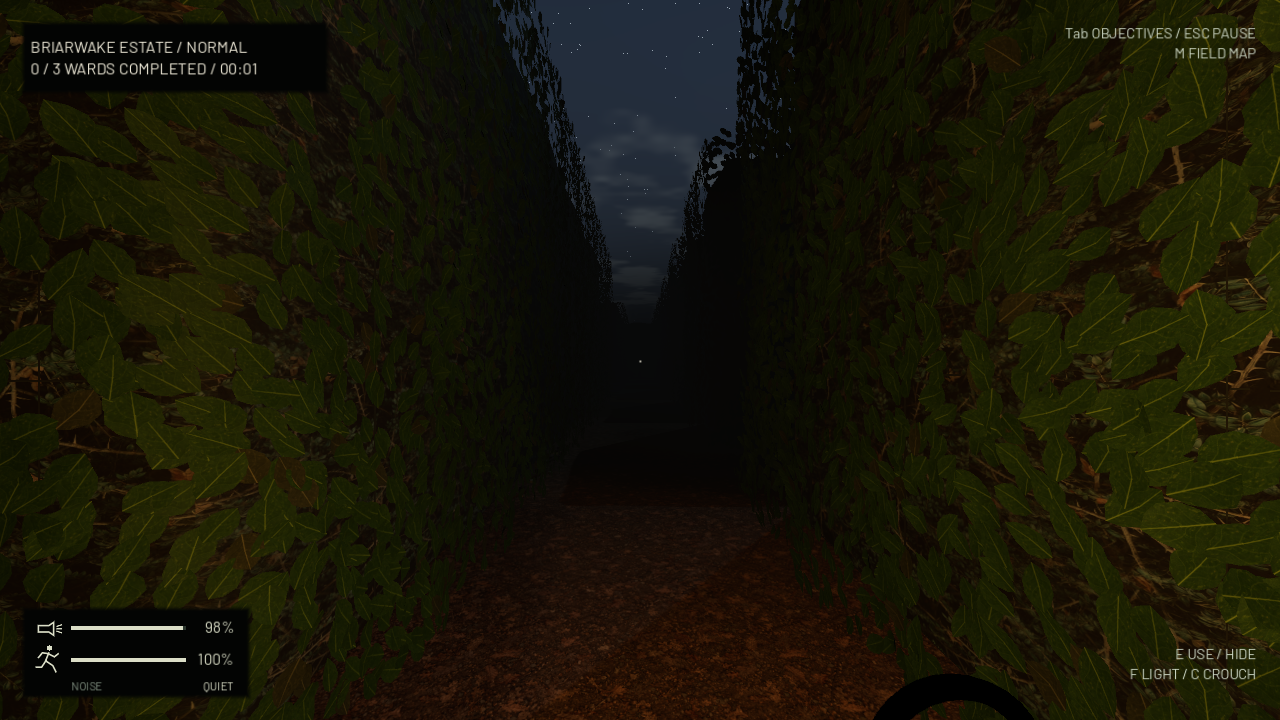
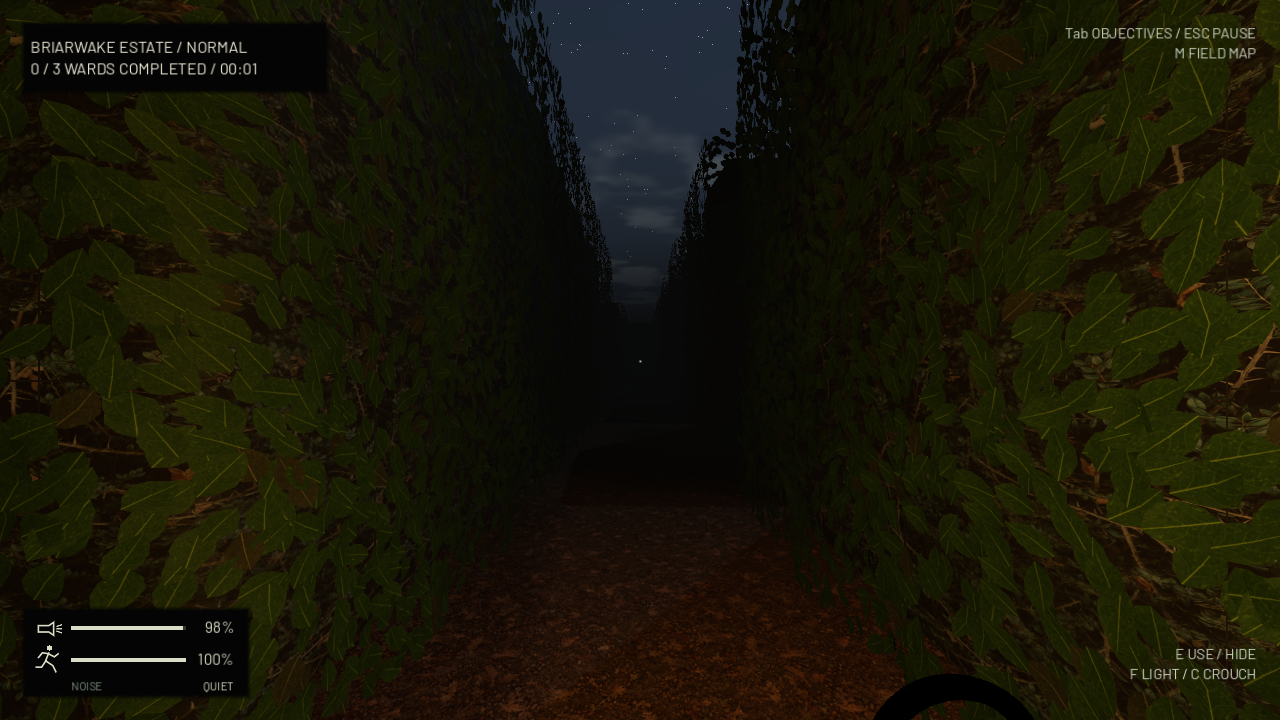
fix(launcher): verify files before starting

diff --git a/docs/index.html b/docs/index.html
@@ -23,10 +23,10 @@
     <img class="hero-image" src="./assets/station-key-art.png" alt="Key art: a lone figure beneath a red beacon in a flooded pumping station" fetchpriority="high">
     <div class="hero-shade"></div>
     <div class="hero-copy">
-      <p class="eyebrow"><span class="signal" aria-hidden="true"></span> FREE PLAYABLE ALPHA <span class="build-number">/ 0.23.3</span></p>
+      <p class="eyebrow"><span class="signal" aria-hidden="true"></span> FREE PLAYABLE ALPHA <span class="build-number">/ 0.23.4</span></p>
       <h1 id="game-title">THE HOLLOW<br><span>BELOW</span><i>.</i></h1>
       <p class="tagline">Something down here<br>still remembers your name.</p>
-      <div class="hero-actions"><a class="button primary" href="https://github.com/RyanVerWey/the-hollow-below-alpha/releases/download/v0.23.3/The-Hollow-Below-Alpha-Setup.exe" data-installer-download download>DOWNLOAD INSTALLER <span aria-hidden="true">↓</span></a></div>
+      <div class="hero-actions"><a class="button primary" href="https://github.com/RyanVerWey/the-hollow-below-alpha/releases/download/v0.23.4/The-Hollow-Below-Alpha-Setup.exe" data-installer-download download>DOWNLOAD INSTALLER <span aria-hidden="true">↓</span></a></div>
       <p class="platform-note">Windows 10 / 11 · Solo / 2–4 player co-op · Keyboard &amp; mouse</p>
     </div>
     <div class="hero-bottom"><span>BLACKWATER MUNICIPAL AUTHORITY<br><small>INCIDENT RECORD / 013</small></span><button class="sound-toggle" id="sound-toggle" type="button" aria-pressed="false"><span aria-hidden="true">♫</span> LISTEN TO THE STATION</button><span class="key-art-label">KEY ART / NOT A GAMEPLAY CAPTURE</span></div>
@@ -34,7 +34,7 @@
   <section class="station section" id="station" aria-labelledby="station-title">
     <p class="eyebrow section-index">01 / THE DESCENT</p>
     <div class="station-intro"><h2 id="station-title">THE POWER IS OUT.<br><span>YOU ARE NOT ALONE.</span></h2><div><p>The floodgate circuit has gone dark. Below Blackwater, the corridors are filling with haze. Find three breakers, restore the circuit, and get back to the entrance.</p><p>Keep your footsteps quiet. Whatever is moving through the station can hear you.</p></div></div>
-    <figure class="gameplay-wide"><img src="./assets/haze-gameplay.png" alt="Godot alpha gameplay: the Blackwater station corridor lit by a limited flashlight" loading="lazy"><figcaption><span>IN-GAME CAPTURE / ALPHA 0.23.3</span><span>VISIBILITY: LIMITED</span></figcaption></figure>
+    <figure class="gameplay-wide"><img src="./assets/haze-gameplay.png" alt="Godot alpha gameplay: the Blackwater station corridor lit by a limited flashlight" loading="lazy"><figcaption><span>IN-GAME CAPTURE / ALPHA 0.23.4</span><span>VISIBILITY: LIMITED</span></figcaption></figure>
     <div class="survival-notes"><article><span class="note-number">I.</span><h3>Spend your light wisely.</h3><p>Your flashlight drains. Switch it off to recover power, and listen before you move.</p></article><article><span class="note-number">II.</span><h3>It follows the noise.</h3><p>Running carries through the station. Crouch, change direction, and break its line of sight.</p></article><article><span class="note-number">III.</span><h3>Hide before it sees you.</h3><p>A locker buys you time. If it watches you climb inside, it already knows where to look.</p></article></div>
   </section>
   <section class="briarwake section" id="briarwake" aria-labelledby="briarwake-title">
@@ -45,9 +45,9 @@
   <section class="play-section section" id="play" aria-labelledby="play-title">
     <div class="play-heading"><p class="eyebrow">02 / ACCESS AUTHORIZED</p><h2 id="play-title">GO BELOW.</h2><p>Free alpha. No account. No engine to install.</p></div>
     <div class="download-panel">
-      <div class="release-line"><span class="availability"><span class="signal" aria-hidden="true"></span> ALPHA AVAILABLE</span><span id="release-version">BUILD 0.23.3</span></div>
+      <div class="release-line"><span class="availability"><span class="signal" aria-hidden="true"></span> ALPHA AVAILABLE</span><span id="release-version">BUILD 0.23.4</span></div>
       <h3>WINDOWS ALPHA</h3><p class="download-description">The full game and its own launcher in one Windows installer. Install once, then return through your desktop or Start menu shortcut.</p>
-      <a class="button primary download-launcher" href="https://github.com/RyanVerWey/the-hollow-below-alpha/releases/download/v0.23.3/The-Hollow-Below-Alpha-Setup.exe" data-installer-download download>DOWNLOAD INSTALLER <span aria-hidden="true">↓</span></a>
+      <a class="button primary download-launcher" href="https://github.com/RyanVerWey/the-hollow-below-alpha/releases/download/v0.23.4/The-Hollow-Below-Alpha-Setup.exe" data-installer-download download>DOWNLOAD INSTALLER <span aria-hidden="true">↓</span></a>
       <p class="download-facts" id="download-facts">Windows 10 / 11, 64-bit · Full installer: 314.4 MB</p>
       <ol class="install-steps"><li>Open the installer and choose <b>Install</b>.</li><li>Open the launcher and choose <b>Play game</b>.</li><li>Return using your desktop or Start menu shortcut.</li></ol>
       <p class="alpha-note">Early, unsigned alpha software. Windows may show a publisher warning. There is no save system yet.</p>
@@ -58,7 +58,7 @@
   <section class="field-section section" id="field-notes" aria-labelledby="notes-title">
     <div class="field-heading"><p class="eyebrow">03 / FIELD NOTES</p><h2 id="notes-title">BEFORE YOU ENTER.</h2></div>
     <div class="field-grid"><div class="controls"><h3>Keep these close.</h3><dl><div><dt>Move</dt><dd>W A S D</dd></div><div><dt>Look</dt><dd>MOUSE / ARROWS</dd></div><div><dt>Sprint</dt><dd>SHIFT</dd></div><div><dt>Crouch</dt><dd>C / CTRL</dd></div><div><dt>Flashlight</dt><dd>F</dd></div><div><dt>Use / hide</dt><dd>E</dd></div><div><dt>Objectives</dt><dd>TAB</dd></div><div><dt>Survey in staging</dt><dd>M</dd></div><div><dt>Difficulty in staging</dt><dd>R</dd></div><div><dt>Pause</dt><dd>ESC</dd></div></dl></div>
-    <div class="faq"><details open><summary>What is in this alpha?</summary><p>Godot alpha 0.23.3. Repairs hunter awareness: deliberately approaching a hunter interrupts your opening protection, and sustained nearby walking can escalate into a hunt. Distant players retain entry protection and safe rooms remain protected. Everyone in a co-op group should update. Play solo or host private co-op for 2–4 players using invite codes. Choose from four survivors and save your own display name. The host selects either level and difficulty. Survivors start separately, share objectives and map discoveries, and must each escape. Death or escape lets you spectate. The host must stay connected; online menus do not pause the hunt. Internet is required for co-op; solo play remains offline. Two playable nightmares: Blackwater pumping station and Briarwake Estate, a moonlit hedge maze. Briarwake has a blood-moon sky, drifting haze, damp dirt paths and joined hedges. Its farmer wears a stitched hood and leather apron, carries a two-handed chainsaw, and uses authored walk, run and three attack animations. New iron oil lanterns mark corridor turns. Its chainsaw attacks have a visible windup, a committed swing and recovery; cover and retreat can prevent a hit. Briarwake has a safe potting house, dim lanterns, cold haze, tool shelters and the Thornkeeper: a demonic farmer carrying a chainsaw. Restore three wards in any order. The Lantern Ward strengthens guide lights and doubles portable-lantern endurance; the Wind Bell adds player tracking and a reusable nearby stagger; the Root Altar opens three thorn shortcuts. Any ward unlocks the M-toggle survey; seen objectives are recorded on the map; unseen locations remain hidden. Restore all three and return to the estate gate. Hear the saw approach before you see him. Both levels share the same HUD, map legend, objective checklist, pause controls and settings. Found objectives gain amber map pins; completed objectives turn green. Both levels offer Easy, Normal, Hard and Nightmare, with different routes, lighting, equipment and hunting. Nightmare removes portable light and sprint and locks most hiding places. Blackwater retains its breaker progression and live field map. Electrical buzzing grows louder near unpowered breakers, carries around corners and stops when restored. In Briarwake, follow lantern wind and loose metal, a creaking bell hanger with dull clapper, or dry root groans to dormant wards. Each falls silent when restored. Its harmless corner scares now have roughly half the former cooldown, with shorter retries when placement fails. Corn Maze and Stone Labyrinth remain Coming Soon. TAB shows objectives; Escape pauses and resumes. Restarting or leaving a run requires confirmation that progress will not be saved. Controls &amp; settings offers Fullscreen, Borderless and Windowed, resolution, three graphics presets, V-Sync and a frame limit. Display changes revert unless confirmed. The title menu includes Quit to desktop.</p></details><details><summary>How do I play with friends?</summary><p>Open Play with Friends, enter your name and host a private lobby. Share its invite code with up to three friends. Everyone chooses a survivor and readies up; the host chooses the level and difficulty and starts the descent. You begin in different maze sectors, share objective progress and each need to reach the exit. No account or port forwarding is needed. Co-op requires Internet; the host must keep the game open. Menus do not pause online play. Solo play remains available offline.</p></details><details><summary>How do updates work?</summary><p>The launcher checks for updates when it opens. When a newer alpha is available, choose Update &amp; restart. It downloads and verifies the full installer, installs the update, and reopens the launcher. Close the game before updating. Installed play stays available offline. Older launchers need the latest full installer once to enable this feature.</p></details><details><summary>Can I play on my phone or with a controller?</summary><p>This alpha is built for a desktop keyboard and mouse. Mobile, controller support and saved progress are not available.</p></details><details><summary>Is this on Steam?</summary><p>Not yet. This is an early independent playtest, shared directly while the game grows.</p></details><details><summary>Found something broken?</summary><p>Send the person who shared the game your build number, Windows version, what happened, and the steps that caused it. A screenshot helps. Windows logs: <code>%APPDATA%\Godot\app_userdata\The Hollow Below\logs</code>.</p></details></div></div>
+    <div class="faq"><details open><summary>What is in this alpha?</summary><p>Godot alpha 0.23.4. Checks the complete installed game before Play, including its executable, Godot data pack, bundled runtime and matching build version. Mixed or damaged files no longer proceed into a Godot project-data alert. Everyone in a co-op group should update. Play solo or host private co-op for 2–4 players using invite codes. Choose from four survivors and save your own display name. The host selects either level and difficulty. Survivors start separately, share objectives and map discoveries, and must each escape. Death or escape lets you spectate. The host must stay connected; online menus do not pause the hunt. Internet is required for co-op; solo play remains offline. Two playable nightmares: Blackwater pumping station and Briarwake Estate, a moonlit hedge maze. Briarwake has a blood-moon sky, drifting haze, damp dirt paths and joined hedges. Its farmer wears a stitched hood and leather apron, carries a two-handed chainsaw, and uses authored walk, run and three attack animations. New iron oil lanterns mark corridor turns. Its chainsaw attacks have a visible windup, a committed swing and recovery; cover and retreat can prevent a hit. Briarwake has a safe potting house, dim lanterns, cold haze, tool shelters and the Thornkeeper: a demonic farmer carrying a chainsaw. Restore three wards in any order. The Lantern Ward strengthens guide lights and doubles portable-lantern endurance; the Wind Bell adds player tracking and a reusable nearby stagger; the Root Altar opens three thorn shortcuts. Any ward unlocks the M-toggle survey; seen objectives are recorded on the map; unseen locations remain hidden. Restore all three and return to the estate gate. Hear the saw approach before you see him. Both levels share the same HUD, map legend, objective checklist, pause controls and settings. Found objectives gain amber map pins; completed objectives turn green. Both levels offer Easy, Normal, Hard and Nightmare, with different routes, lighting, equipment and hunting. Nightmare removes portable light and sprint and locks most hiding places. Blackwater retains its breaker progression and live field map. Electrical buzzing grows louder near unpowered breakers, carries around corners and stops when restored. In Briarwake, follow lantern wind and loose metal, a creaking bell hanger with dull clapper, or dry root groans to dormant wards. Each falls silent when restored. Its harmless corner scares now have roughly half the former cooldown, with shorter retries when placement fails. Corn Maze and Stone Labyrinth remain Coming Soon. TAB shows objectives; Escape pauses and resumes. Restarting or leaving a run requires confirmation that progress will not be saved. Controls &amp; settings offers Fullscreen, Borderless and Windowed, resolution, three graphics presets, V-Sync and a frame limit. Display changes revert unless confirmed. The title menu includes Quit to desktop.</p></details><details><summary>How do I play with friends?</summary><p>Open Play with Friends, enter your name and host a private lobby. Share its invite code with up to three friends. Everyone chooses a survivor and readies up; the host chooses the level and difficulty and starts the descent. You begin in different maze sectors, share objective progress and each need to reach the exit. No account or port forwarding is needed. Co-op requires Internet; the host must keep the game open. Menus do not pause online play. Solo play remains available offline.</p></details><details><summary>How do updates work?</summary><p>The launcher checks for updates when it opens. When a newer alpha is available, choose Update &amp; restart. It downloads and verifies the full installer, installs the update, and reopens the launcher. Close the game before updating. Installed play stays available offline. Older launchers need the latest full installer once to enable this feature.</p></details><details><summary>Can I play on my phone or with a controller?</summary><p>This alpha is built for a desktop keyboard and mouse. Mobile, controller support and saved progress are not available.</p></details><details><summary>Is this on Steam?</summary><p>Not yet. This is an early independent playtest, shared directly while the game grows.</p></details><details><summary>Found something broken?</summary><p>Send the person who shared the game your build number, Windows version, what happened, and the steps that caused it. A screenshot helps. Windows logs: <code>%APPDATA%\Godot\app_userdata\The Hollow Below\logs</code>.</p></details></div></div>
   </section>
 </main>
 <footer class="footer"><a class="brand footer-brand" href="#">THE HOLLOW BELOW<span>THE STATION IS STILL LISTENING.</span></a><button id="share" class="inline-button" type="button">Copy playtest link <span aria-hidden="true">↗</span></button><p>Independent horror alpha · 2026<br><a href="./assets/audio-credits.txt">Audio credits</a></p><span id="share-status" class="sr-only" role="status"></span></footer>

diff --git a/README.md b/README.md
@@ -5,9 +5,9 @@ Free Windows horror alpha. Solo and private 2Ã¢â‚¬“4 player co-op. Keybo
 ## Play
 
 - **[Official playtest website](https://ryanverwey.github.io/the-hollow-below-alpha/)**
-- **[Download the Windows installer](https://github.com/RyanVerWey/the-hollow-below-alpha/releases/download/v0.23.3/The-Hollow-Below-Alpha-Setup.exe)**
+- **[Download the Windows installer](https://github.com/RyanVerWey/the-hollow-below-alpha/releases/download/v0.23.4/The-Hollow-Below-Alpha-Setup.exe)**
 
-- [Release files and notes](https://github.com/RyanVerWey/the-hollow-below-alpha/releases/tag/v0.23.3)
+- [Release files and notes](https://github.com/RyanVerWey/the-hollow-below-alpha/releases/tag/v0.23.4)
 
 On Windows, open the installer, choose **Install**, then open the launcher and choose **Play game**. Desktop and Start menu shortcuts are included. The launcher checks for updates when opened. Choose **Update & restart** to download, verify and install a newer release, then reopen the launcher. Close the game first. Installed play works offline. Launchers from before this feature need the latest full installer once. Portable copies are updated manually. No administrator access or game development tools are required.
 
@@ -39,5 +39,9 @@ Update every player in your group. Godot and Unity builds cannot share lobbies. 
 Update every player in your group. Godot and Unity builds cannot share lobbies. Godot uses a new settings folder; configure voice chat again if needed.
 
 ## Godot alpha 0.23.3
+
+Update every player in your group. Godot and Unity builds cannot share lobbies. Godot uses a new settings folder; configure voice chat again if needed.
+
+## Godot alpha 0.23.4
 
 Update every player in your group. Godot and Unity builds cannot share lobbies. Godot uses a new settings folder; configure voice chat again if needed.
